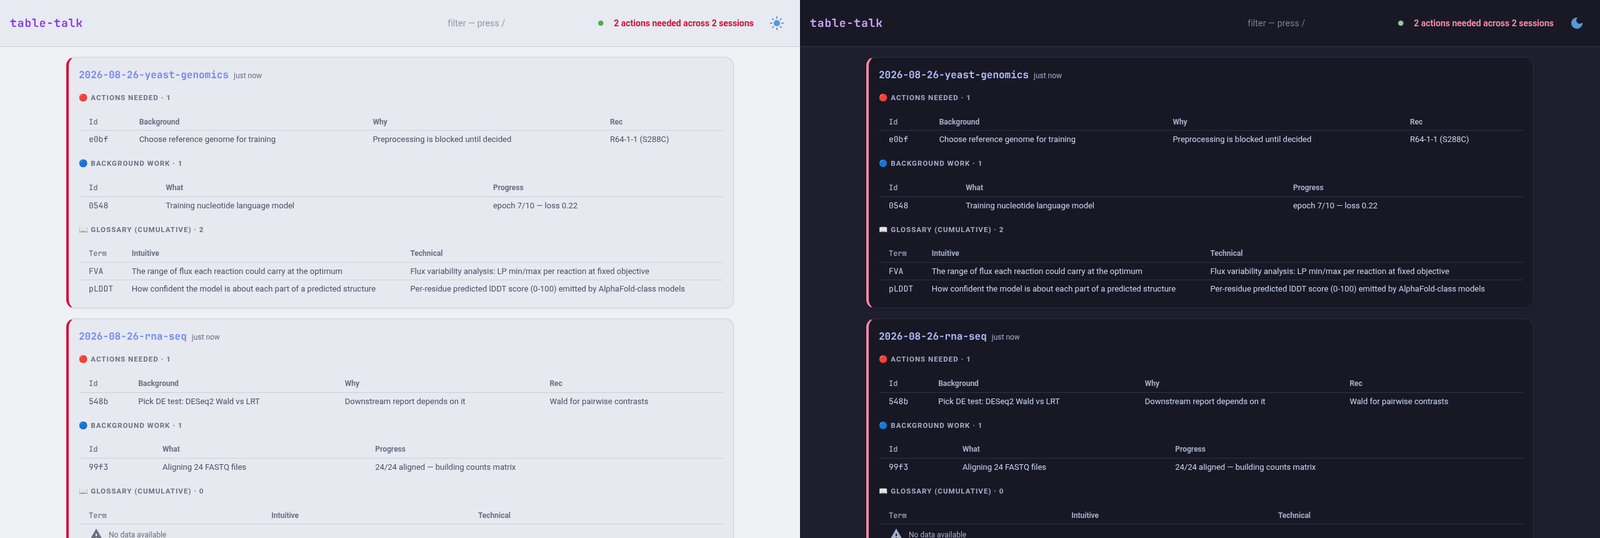
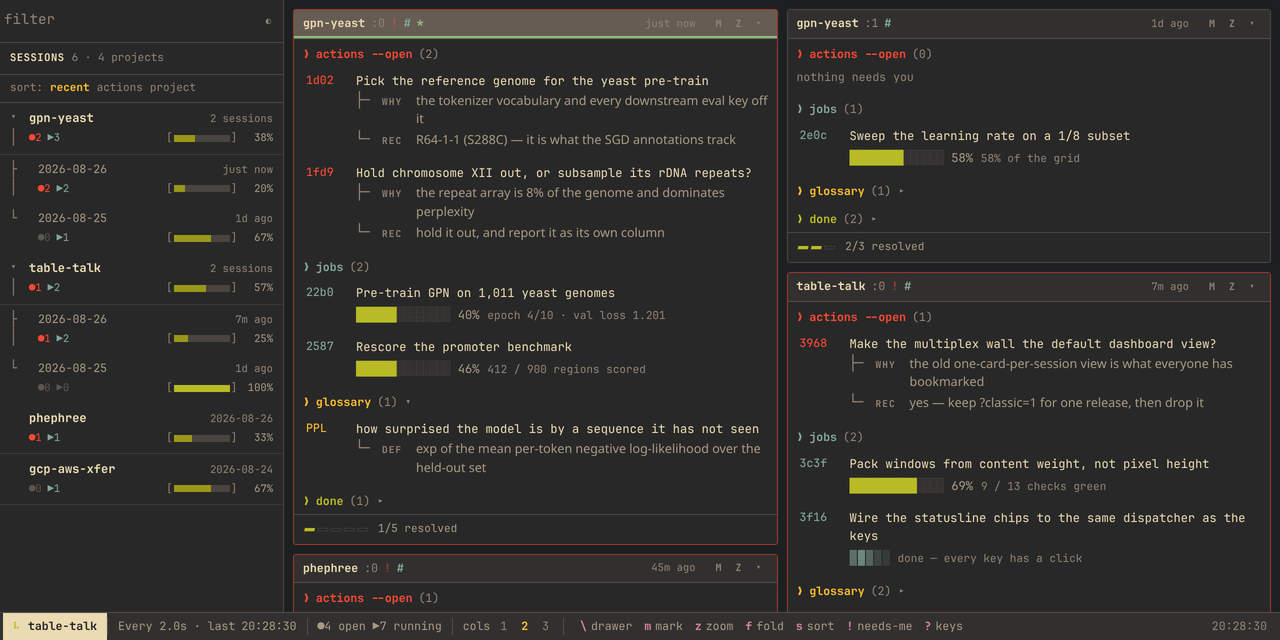
docs: new dashboard hero, demo tape, and key bindings
The hero is the multiplex dashboard in ghostty gruvbox-dark at exactly
1280x640, so it doubles as the GitHub social preview. Shot against a
throwaway TABLE_TALK_DIR fixture, never the real log.

demo.tape is committed as source rather than rendered: vhs is not
installed here. It captures ids from stdout the way the README's Use
block does, because a 4-hex id is minted at record time and cannot be
hardcoded, and it records into a mktemp dir so rendering the tape does
not pollute the renderer's own log.

The README's demo.gif embed is dropped for now: the committed gif shows
the pre-wall card dashboard and contradicts the new hero. The file
stays, and a comment records the one command that re-renders it.

Key bindings in the new Dashboard section are transcribed from KEYMAP
and their effects read from do(), not from the design doc.

diff --git a/README.md b/README.md
@@ -11,9 +11,10 @@ technical terms explained twice (intuitive + precise). Everything is also an
 event in a local log, and a live dashboard shows every session's tables with
 the full cumulative glossary.
 
-![table-talk dashboard in Catppuccin Latte and Mocha](docs/assets/hero.png)
+![The table-talk dashboard: a drawer of sessions grouped by project beside a tiled wall of session windows](docs/assets/hero.png)
 
-<p align="center"><img src="docs/assets/demo.gif" width="720" alt="Tables filling in live as a Claude session records actions, progress, and terms"></p>
+<!-- The terminal demo is scripted in docs/assets/demo.tape; `vhs docs/assets/demo.tape`
+     re-renders docs/assets/demo.gif, which still shows the pre-wall dashboard. -->
 
 ## How it works
 
@@ -21,8 +22,9 @@ the full cumulative glossary.
   `~/.local/share/table-talk/<date>-<project>.jsonl`. Current state is a
   shallow-merge fold by 4-hex id — append-only, safe for concurrent sessions.
 - **Dashboard** (`bin/table-talk-dash.py`, [NiceGUI](https://nicegui.io) via
-  `uv run`, PEP 723): `table-talk serve` → http://127.0.0.1:8731 — one card
-  per session, sortable tables, refreshes every 2 s, done items collapsed.
+  `uv run`, PEP 723): `table-talk serve` → http://127.0.0.1:8731 — a tiled wall
+  of sessions beside a project drawer, refreshed every 2 s. See
+  [Dashboard](#dashboard).
 - **Skill** (`skill/SKILL.md`): tells Claude to record as it works and to end
   every reply with the tables, using ids you can reference back ("a3f9: option 2").
 
@@ -46,6 +48,43 @@ install.sh symlinks the CLI into ~/.local/bin — make sure that's on your PATH.
     table-talk term "FVA" --intuitive "range of possible flux" --technical "LP min/max per reaction at fixed optimum"
     table-talk show            # plain-text dump
     table-talk serve           # dashboard
+
+## Dashboard
+
+`table-talk serve` opens a tmux-shaped view of every session log, polling every
+two seconds.
+
+- **The wall** tiles one window per session, packed into columns by how much
+  each has to say. A titlebar reads `project:index` and carries tmux's flags —
+  `!` open actions, `#` jobs running, `M` marked, `Z` zoomed, `*` current — over
+  sections for actions, jobs, glossary and done, and a footer tallying what is
+  resolved. Progress text is read for a percentage and drawn as a bar; a
+  coloured gutter marks whatever moved since you last looked. Click any id to
+  copy `table-talk done <id>`.
+- **The drawer** is a session tree grouped by project, every row carrying open
+  counts and an htop-style meter (a project's numbers are the sum of its
+  sessions', never the average of their percentages). Click a project to scope
+  the wall to it, a session to jump to its window. The filter box dims
+  non-matching rows instead of hiding them — a filter must never make an open
+  action disappear — and reports `N/M rows match`.
+- **The statusline** carries the poll cadence, the open tally, the column
+  count, and one chip per key.
+
+| key | does |
+| --- | --- |
+| `\` | show or hide the drawer |
+| `m` | mark the current window — marked windows pack first |
+| `z` | zoom it to fill the wall |
+| `f` | fold it down to its titlebar |
+| `s` | cycle the drawer sort: recent → actions → project |
+| `/` | jump to the filter box |
+| `!` | needs-me: drop windows with nothing open |
+| `?` | the key list |
+| `Esc` | leave zoom |
+
+Every key has a click equivalent — the statusline chips, the `M` `Z` `▾`
+buttons on each titlebar, and the filter box itself — so nothing on this page
+is keyboard-only.
 
 ## Test
 
